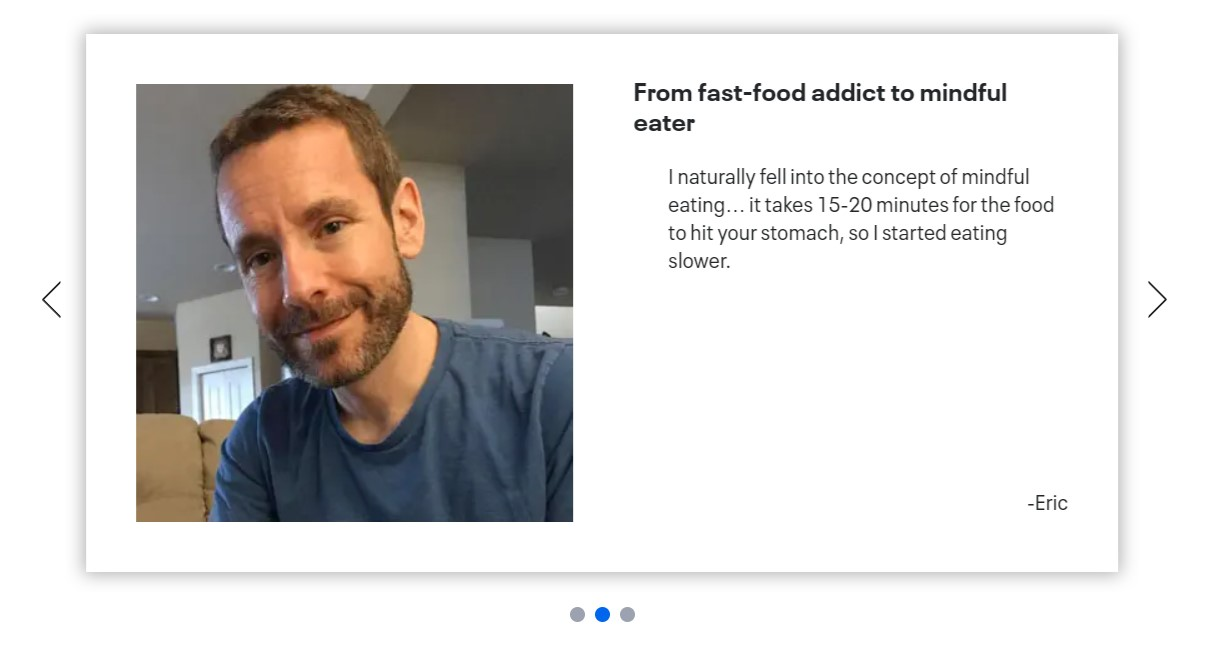
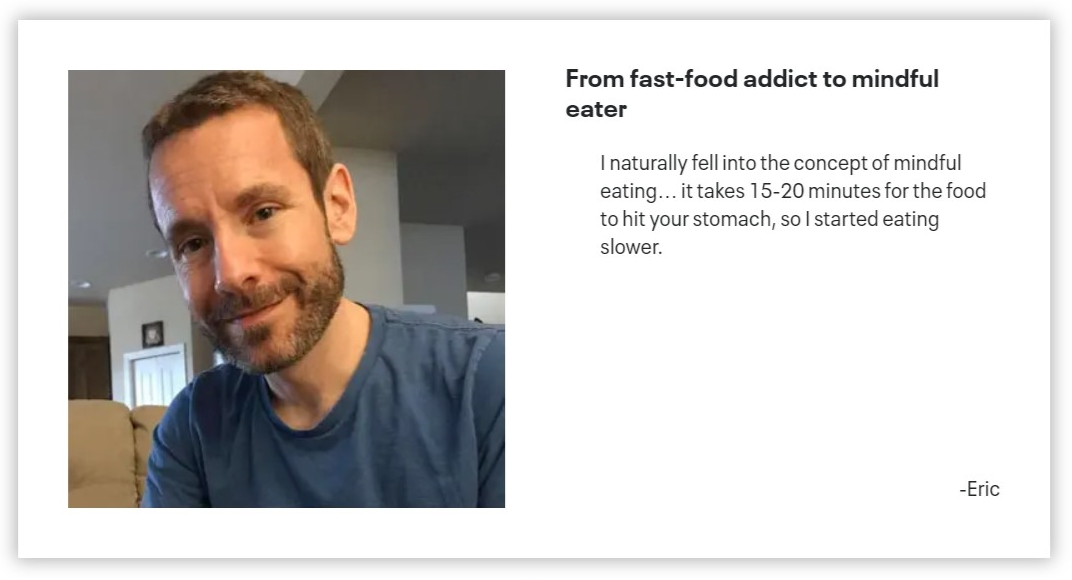
img

Changed region(s): [[0.0, 0.0, 0.9851, 0.9931], [0.5233, 0.1241, 0.8927, 0.2172], [0.8619, 0.7448, 0.8927, 0.7759]]

diff --git a/myfitnesspal/src/components/Homepage.jsx b/myfitnesspal/src/components/Homepage.jsx
@@ -1,10 +1,16 @@
 import "./Homepage.css";
 import { Link } from "react-router-dom";
-import { useState } from "react";
+import { useState, useEffect } from "react";
 
 export const HomePage = () => {
-  const [text,setText] = useState("");
+  const [text, setText] = useState("");
+  const [index,setIndex] = useState(0);
 
+  const image = ["https://github.com/AbhijitAher/MyFitnessPal_U5/blob/main/myfitnesspal/public/Images/homepage/corousel_1.jpg?raw=true",
+"https://github.com/AbhijitAher/MyFitnessPal_U5/blob/main/myfitnesspal/public/Images/homepage/corousel_2.jpg?raw=true",
+"https://github.com/AbhijitAher/MyFitnessPal_U5/blob/main/myfitnesspal/public/Images/homepage/corousel_3.jpg?raw=true"] 
+   
+  useEffect(() => {});
 
   return (
     <div>
@@ -35,7 +41,6 @@ export const HomePage = () => {
         </div>
       </div>
       <div id="home_body_2">
-
         <input
           id="home_input_search_box"
           value={text}
@@ -44,12 +49,11 @@ export const HomePage = () => {
           placeholder="Get the nutrition for any food, like an apple"
         />
 
-       <Link to={`/food/${text}`}>
-       <button id="search_button">
-          <i className="fas fa-search"></i>
-        </button>
-         </Link>
-       
+        <Link to={`/food/${text}`}>
+          <button id="search_button">
+            <i className="fas fa-search"></i>
+          </button>
+        </Link>
       </div>
       <div id="home_body_3">
         <div id="home_body_3_sec1">
@@ -109,7 +113,39 @@ export const HomePage = () => {
           </p>
         </div>
         <div id="home_corousel">
-          <img src="./Images/homepage/corousel_1.jpg" alt="" />
+          {/* ---------------------------------------------------------------- */}
+
+          <div className="home_corousel_sec_1">
+            <div
+              className="whitespace-nowrap transition ease-linear duration-1000"
+              style={{ transform: `translate3d(${-index * 100}%, 0, 0)` }}
+            >
+              {image.map((e, i) => (
+                <img
+                  className="w-full inline-block"
+                  src={e}
+                  key={i}
+                  alt="img"
+                />
+              ))}
+            </div>
+
+            <div className="slideshowDots text-center absolute bottom-0 left-1/2 ">
+              {image.map((_, id) => (
+                <div
+                  key={id}
+                  className={
+                    index === id ? "slideshowDotActive" : "slideshowDot"
+                  }
+                  onClick={() => {
+                    setIndex(id);
+                  }}
+                ></div>
+              ))}
+            </div>
+          </div>
+
+          {/* --------------------------------------------------------------------------------         */}
         </div>
       </div>
       <div id="home_body_5">

diff --git a/myfitnesspal/src/components/Homepage.css b/myfitnesspal/src/components/Homepage.css
@@ -153,10 +153,15 @@
   margin-bottom: 20px;
 }
 #home_corousel {
-  /* border: 1px solid red; */
+  border: 1px solid red;
   height: 350px;
   margin-bottom: 10px;
 }
+.home_corousel_sec_1{
+  border: 1px solid green;
+  overflow: hidden;
+}
+
 #home_corousel img {
     width: 90%;
 }
